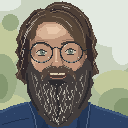
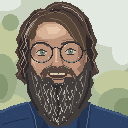
docs(examples): continuous wavy strands, lower cheek line, skin under the lip
Feedback from the subject on the first pass: the earlier 48 carried the flow of
the hair better through one continuous wavy line, the beard sat too high on
the cheeks, and skin shows under the lower lip.

Claude-Session: https://claude.ai/code/session_014TTLD9BXsReLisPj4eMGeJ

diff --git a/examples/stiwi/README.md b/examples/stiwi/README.md
@@ -61,14 +61,18 @@ diff and validate.
 
 The hair at all four sizes was redrawn by **Claude Fable 5.2 running in Claude
 Code (model as declared by the harness)** from the same photo reference, after
-the subject pointed out that it did not match. Only the hair regions and their
-palette tokens changed; the face, glasses, beard and background are untouched.
+the subject pointed out that it did not match. The hair regions and their palette tokens changed, plus two beard corrections
+listed below; the face, glasses and background are untouched.
 
 - Medium brown in place of near-black.
 - A side part on the viewer's left, with one wave rising from it and crossing
   the upper forehead to the viewer's right.
 - The left temple combed back, carrying most of the grey strands.
 - Both sides fall to the jaw and flick outward.
+- Long continuous wavy strands follow the flow from the part, over the crest
+  and down each side, as the first 48-pixel portrait did.
+- The beard's cheek line is trimmed lower and a new `skin-under-lip` region
+  shows skin beneath the lower lip.
 
 At 128 and 256 the hair is one description at 128 scale, doubled for 256, which
 then adds its own loose `hair-strand` layer.
